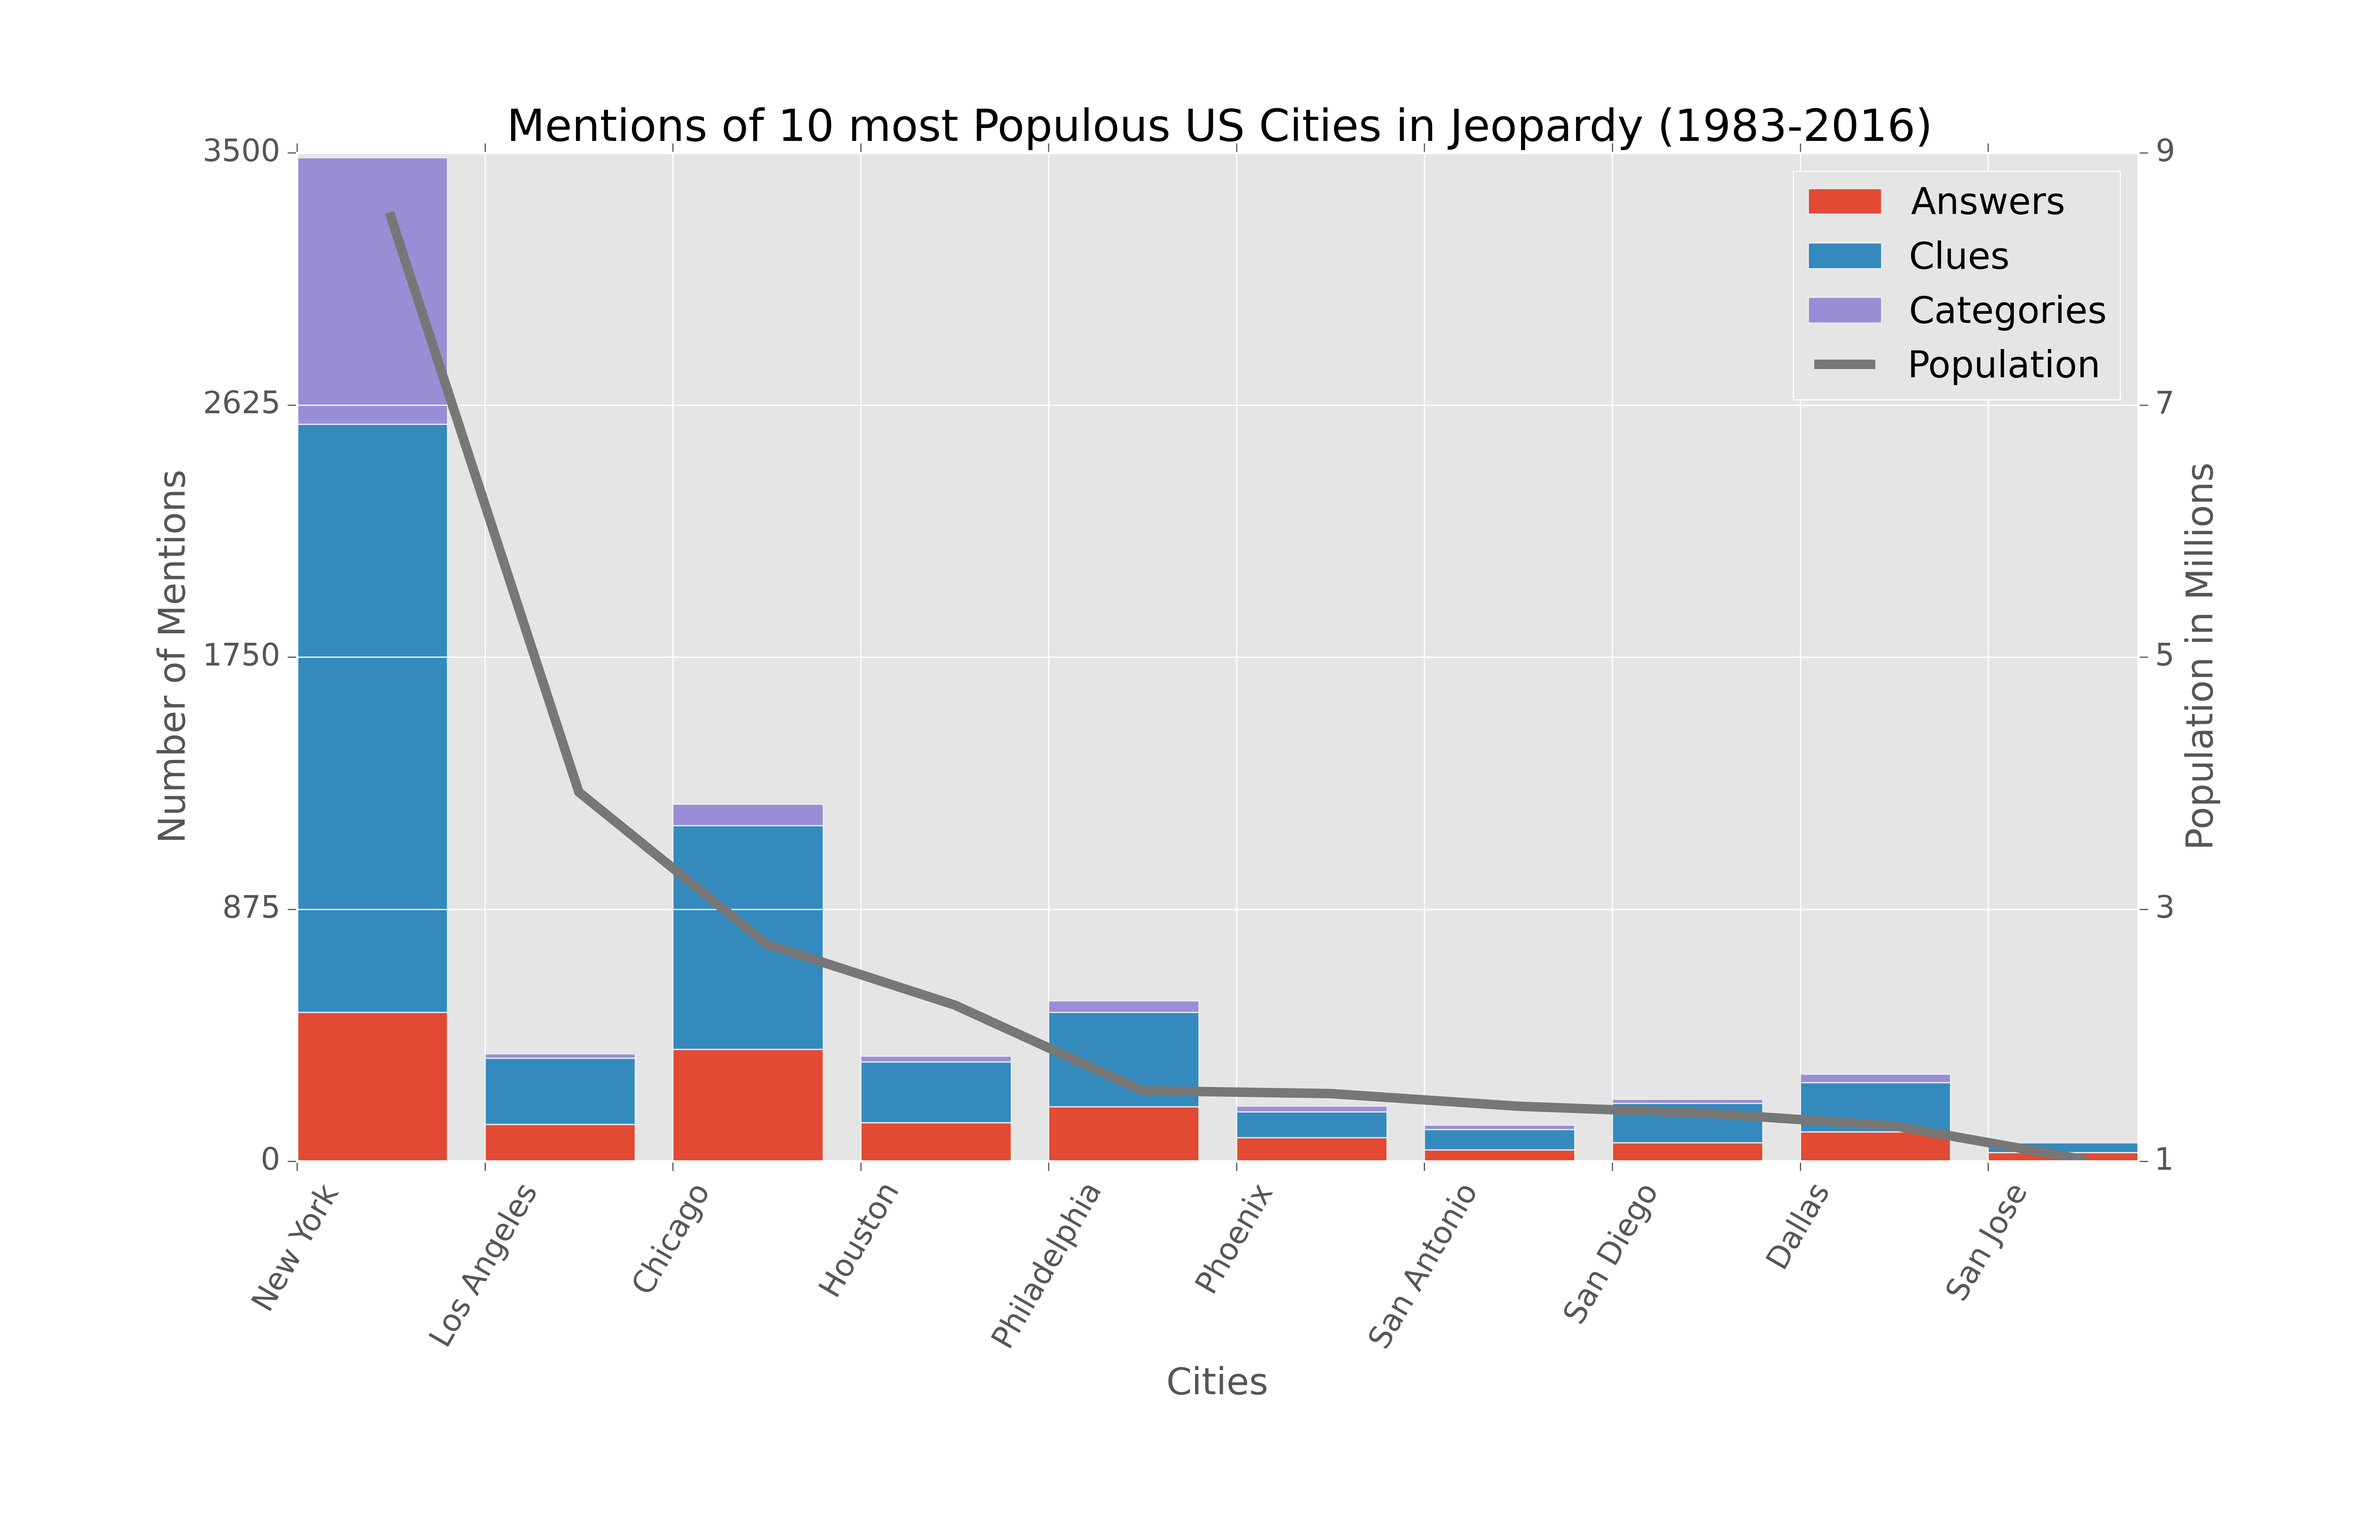
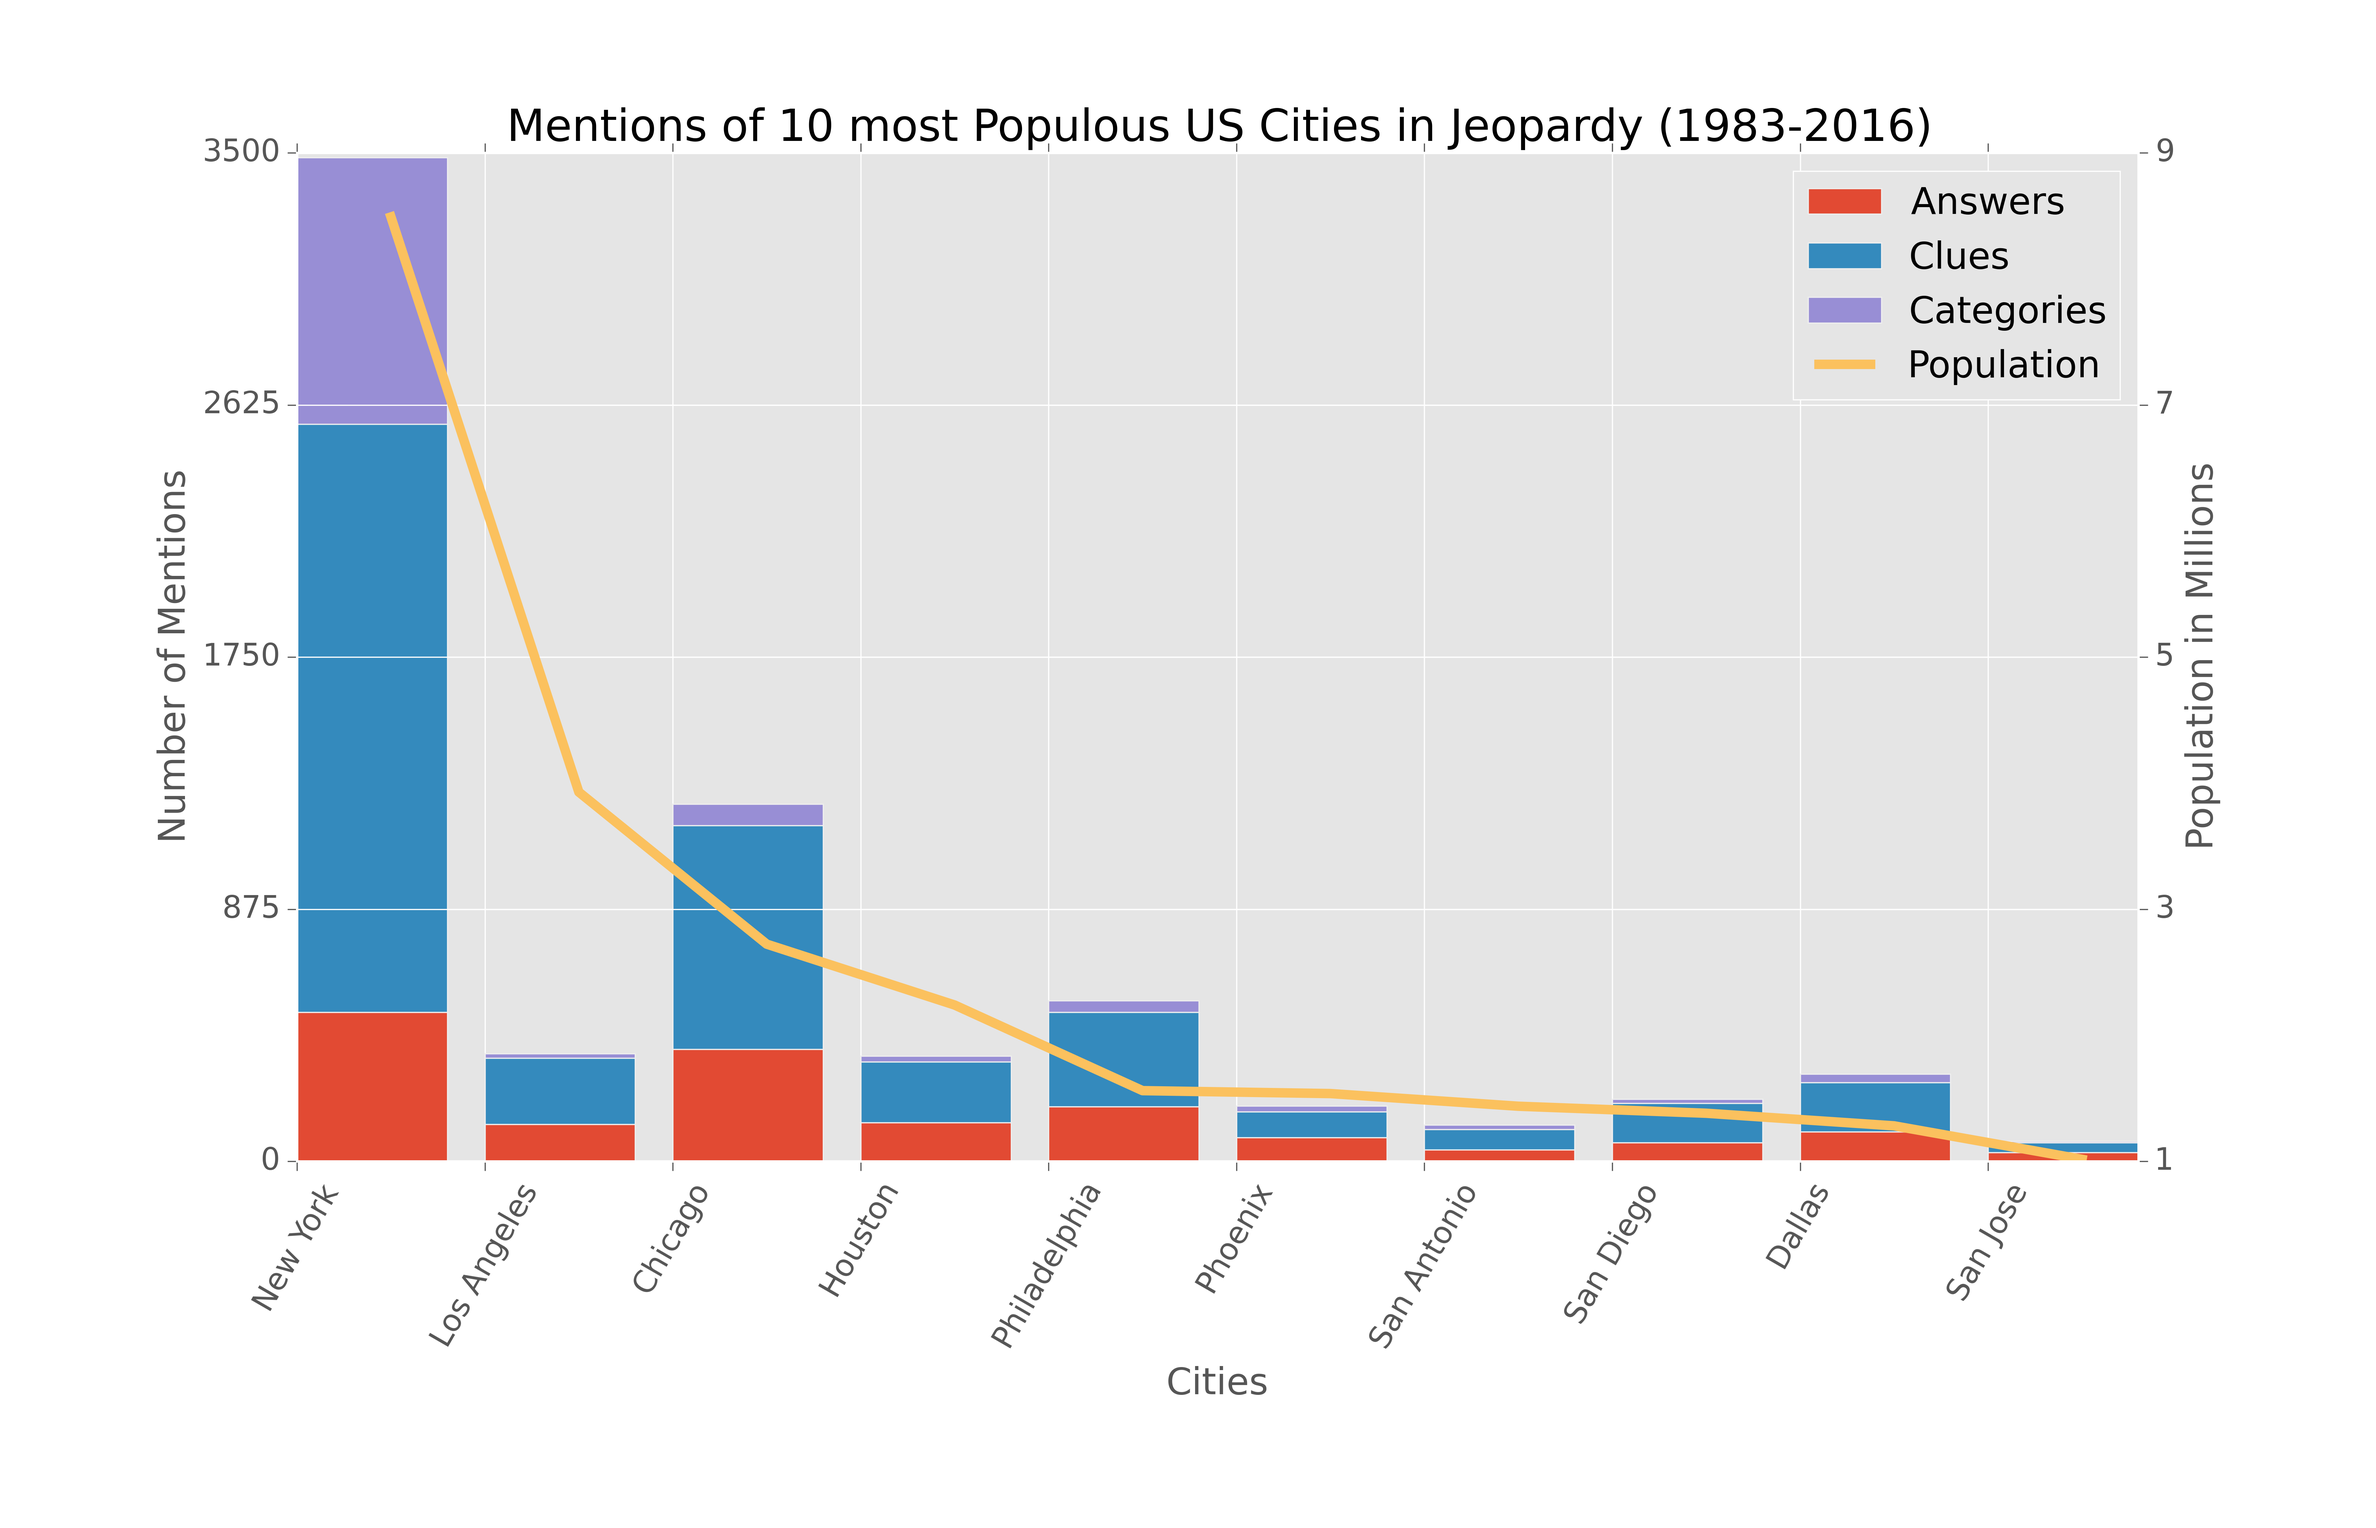
top 10 cities to go along with pop 10

diff --git a/fun_comparisons.py b/fun_comparisons.py
@@ -74,8 +74,8 @@ city_results['total_mentions'] = city_results['Answers'] + city_results['Clues']
 
 
 cres = city_results.sort_values(by = 'total_mentions', ascending=False)
-
-pop10 = city_results[city_results['pop_rank'] <=10]
+pop10 = cres[0:10]
+#pop10 = city_results[city_results['pop_rank'] <=10]
 
 ind = np.arange(10)
 fig, ax1 = plt.subplots()
@@ -86,12 +86,15 @@ ax1.bar(ind, pop10['Categories'], bottom = pop10['Answers']+pop10['Clues'], colo
 
 plt.xlabel('Cities')
 plt.ylabel('Number of Mentions')
-plt.xticks(ind, pop10['City'], rotation=60)
+cities = list(pop10['City'])
+cities = [str(x) for x in cities]
+y = [x+0.25 for x in ind]
+plt.xticks(y, cities, rotation=60)
 #plt.ylim(0,4000)
 
 ax2 = ax1.twinx()
 z = [x+0.5 for x in ind]
-ax2.plot(z, pop10['pop']/1000000, label = 'Population', linewidth = 4, color = plt.rcParams['axes.color_cycle'][3])
+ax2.plot(z, pop10['pop']/1000000, label = 'Population', linewidth = 4, color = plt.rcParams['axes.color_cycle'][4])
 ax2.set_ylabel('Population in Millions')
 
 ax1.set_yticks(np.linspace(ax1.get_ybound()[0], ax1.get_ybound()[1], 5))
@@ -105,9 +108,9 @@ ax1.legend(h1+h2, l1+l2, loc=1)
 
 plt.gcf().subplots_adjust(bottom=0.24)
 
-plt.title('Mentions of 10 most Populous US Cities in Jeopardy (1983-2016)')
+plt.title('10 Most Mentioned US Cities in Jeopardy (1983-2016)')
 #plt.show()
-plt.savefig('pop10cities.png', dpi=500)
+plt.savefig('top10cities.png', dpi=500)
 
 
 
